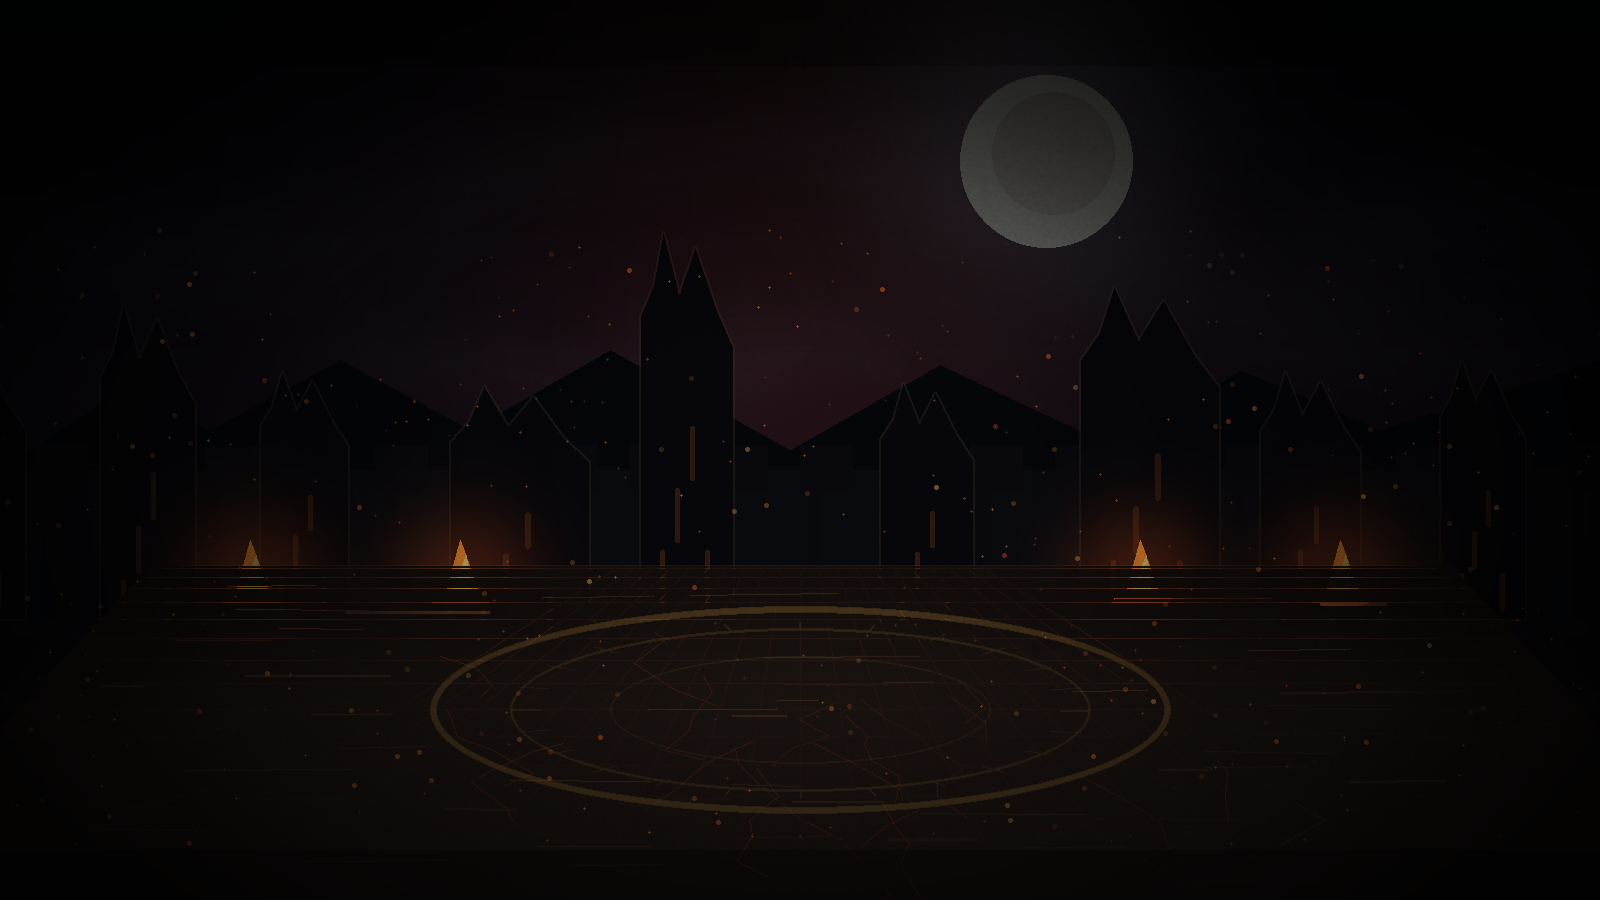
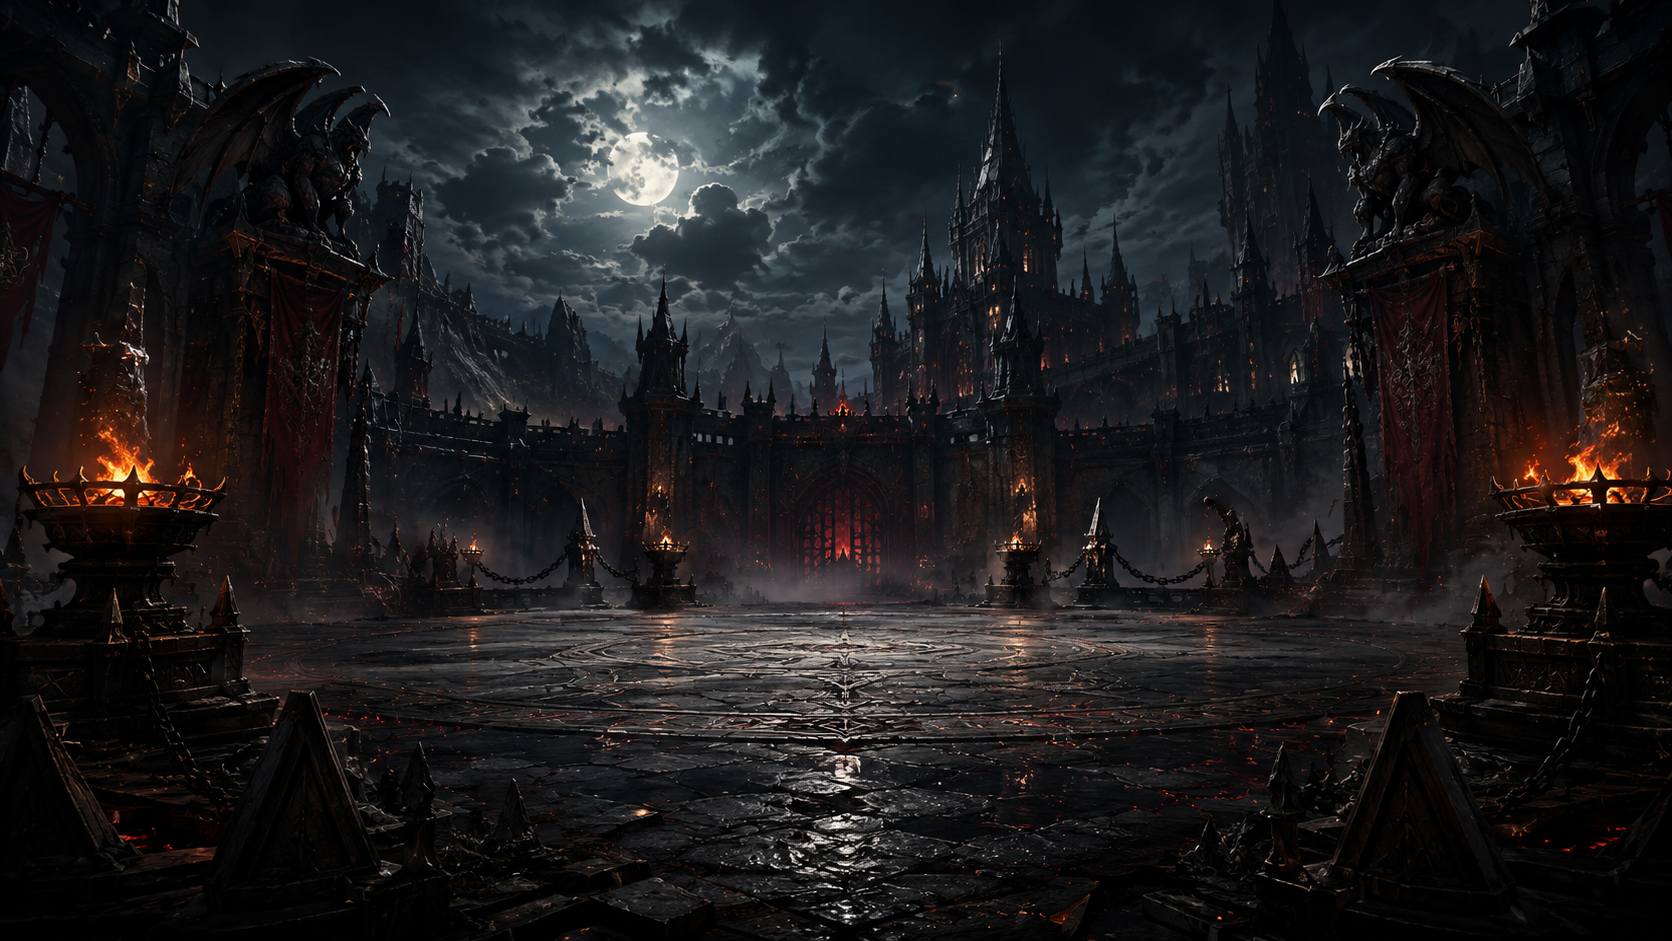
Add exact Black Citadel arena

diff --git a/index.html b/index.html
@@ -7,7 +7,7 @@
   <meta name="theme-color" content="#050506" />
   <meta property="og:title" content="EraLash Combat — Dark Arena" />
   <meta property="og:description" content="Dark premium Telegram fighting Mini App: AI battles, rewards, shop, Stars, referral season and Founder launch event." />
-  <title>EraLash Combat — Dark Cinematic Real Art V4 FIXED</title>
+  <title>EraLash Combat — Exact Black Citadel Arena</title>
   <script src="https://telegram.org/js/telegram-web-app.js"></script>
   <style>
     :root{
@@ -2996,6 +2996,11 @@ body.result-entering #result{
   blackCitadelArenaArt.loading = 'eager';
   blackCitadelArenaArt.src = 'assets/arena-black-citadel-courtyard.png';
 
+  // Exact user-provided arena mode:
+  // the fight background must be the uploaded Black Citadel image itself,
+  // without extra painted fallback geometry, debug grid, artificial light panels or fake overlays.
+  const EXACT_BLACK_CITADEL_ARENA = true;
+
 
   const ui = {
     menu: document.getElementById('menu'),
@@ -4058,6 +4063,7 @@ body.result-entering #result{
     const artReady = blackCitadelArenaArt && blackCitadelArenaArt.complete && blackCitadelArenaArt.naturalWidth > 0;
     if (artReady) {
       drawCoverImage(blackCitadelArenaArt, 0, 0, w, h);
+      if (EXACT_BLACK_CITADEL_ARENA) return;
     } else {
       const sky = ctx.createLinearGradient(0,0,0,h);
       sky.addColorStop(0, '#030406');

diff --git a/EXACT_BLACK_CITADEL_ARENA_RU.md b/EXACT_BLACK_CITADEL_ARENA_RU.md
@@ -1,0 +1,24 @@
+# EraLash Combat — Exact Black Citadel Arena
+
+Эта версия интегрирует именно загруженную пользователем арену в боевой экран.
+
+## Что изменено
+
+- Файл `assets/arena-black-citadel-courtyard.png` заменён на предоставленный референс-арт.
+- Боевой экран теперь рисует эту арену напрямую как background.
+- Включён режим `EXACT_BLACK_CITADEL_ARENA = true`.
+- Убраны дополнительные поверхностные дорисовки арены: fake backlight, extra rune overlays, procedural fog/embers внутри `drawArena()`.
+- HUD, Telegram API, Supabase, Stars, админка и серверные функции не менялись.
+
+## Как проверить
+
+1. Открыть игру.
+2. Нажать `Начать бой`.
+3. Дождаться VS intro.
+4. На боевом экране должна быть именно загруженная dark citadel arena.
+5. Проверить, что бойцы двигаются, кнопки боя работают, победа/поражение запускаются.
+
+## Важно
+
+Если нужно, чтобы арена была вообще без малейшего обрезания на любых экранах, следующий шаг — режим `contain + cinematic side fill`.
+Сейчас используется cover-режим, чтобы сцена полностью закрывала canvas без чёрных полос.

diff --git a/README.md b/README.md
@@ -246,3 +246,8 @@ Fullscreen lobby rebuild: крупный hero-art, левое меню, прав
 ## Dark Cinematic Arena 5.1
 
 Добавлена новая боевая арена Black Citadel Courtyard с real art asset, дымом, embers, soft light, premium vignette и без debug-grid ощущения.
+
+
+## Exact Black Citadel Arena
+
+Добавлена версия с точной пользовательской ареной `assets/arena-black-citadel-courtyard.png` и режимом `EXACT_BLACK_CITADEL_ARENA = true`.